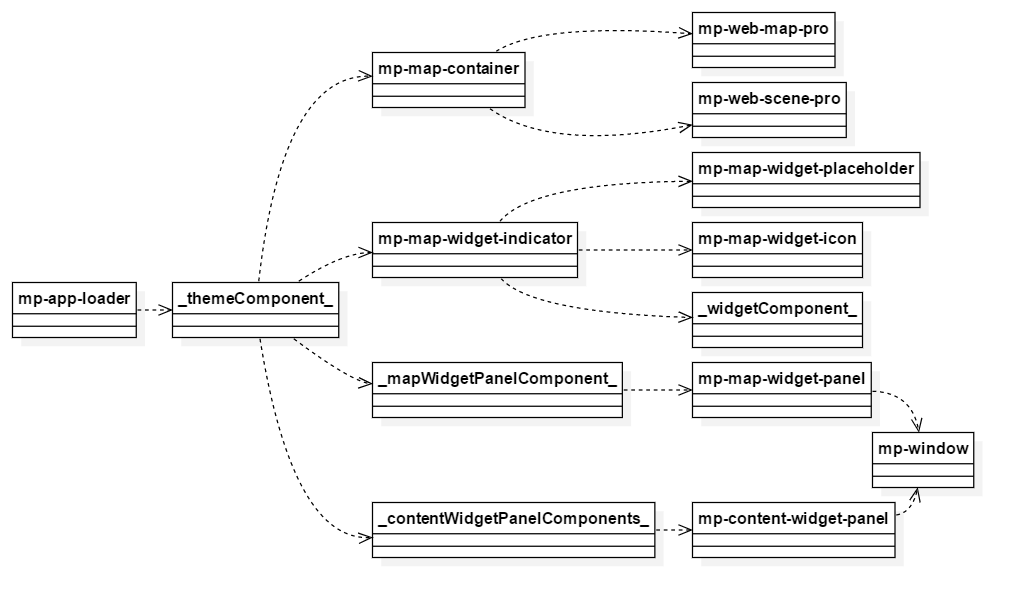
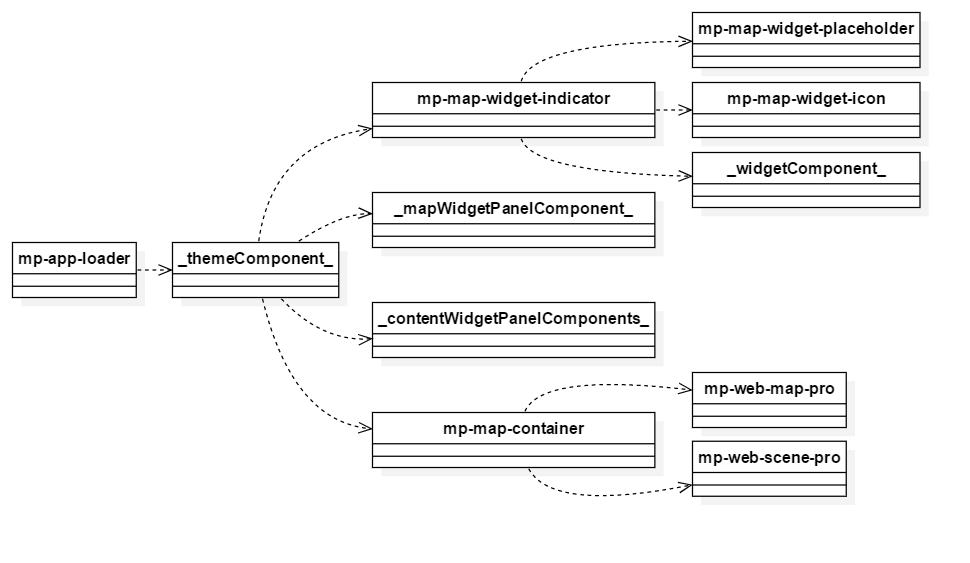
feat：完成指南开发基础部分内容

Changed region(s): [[0.0, 0.0, 0.9588, 0.9361], [0.5876, 0.0302, 0.6186, 0.0604]]

diff --git a/docs/.vuepress/config.js b/docs/.vuepress/config.js
@@ -146,6 +146,10 @@ module.exports = {
           ],
           '/zh/components/': [
             {
+              title: '混入',
+              children: getSidebarByCategory('builder', 'zh')
+            },
+            {
               title: '搭建组件',
               children: getSidebarByCategory('builder-components', 'zh')
             },

diff --git a/docs/zh/guide/development/base.md b/docs/zh/guide/development/base.md
@@ -14,7 +14,7 @@
 
 [mp-app-loader](/zh/components/builder/app-loader.html) 组件负责接收 application，然后提供给所有的子组件，只要任何组件混入 [app-mixin](/zh/api/reference/builder/app-mixin.html)，或者自己 inject getApplication，都可以拿到 application，以及 app-mixin 属性信息里的其他配置相关数据，比如 theme、document 等。
 
-[app.json](<(/zh/guide/introduction/config.html#app-json)>) 是应用全局配置，**包含应用基础配置、文档配置、微件配置等，可通过 [AppManager](/zh/api/reference/builder/manager.html#appmanager) 进行加载，一次性加载完毕**，作为整个应用的数据流，贯穿于整个应用中。
+[app.json](/zh/config/app.html) 是应用全局配置，**包含应用基础配置、文档配置、微件配置等，可通过 [AppManager](/zh/api/reference/builder/manager.html#appmanager) 进行加载，一次性加载完毕**，作为整个应用的数据流，贯穿于整个应用中。**可以先熟悉 app.json 内部结构，再回来看后面的内容。**
 
 > 在引用 MpAppLoader 组件时，会同时引用 AppManager 来获取应用全局配置，并赋值给 application 参数，再将 application 参数赋值给 MpAppLoader 组件。
 > MpAppLoader 组件接收到 application，然后提供给所有的子组件。
@@ -59,25 +59,102 @@ export default {
 
 \_themeComponent\_表示 theme 对象`(从 app.json 中获取)`所关联的主题清单中的组件。通过获取这个主题组件名称，动态创建该组件，并将该组件作为应用根组件，负责承载所有的内容区域布局、地图微件以及弹框面板的布局，其中地图微件和弹框面板由插槽引入。**主题组件可自定义。**
 
+```json
+{
+  // 主题,app.json里的theme字段
+  "theme": {
+    // 主题名称，指向themes/name主题，对应自定义的主题组件名称
+    "name": "pan-spatial-map-classic-theme",
+
+    // 可选，系统主题风格，如果不存在，则使用customStyle
+    "style": "night",
+
+    // 可选，自定义主题风格，必须跟style至少存在一个
+    "customStyle": {
+      "color": "#1890ff",
+      "theme": "night"
+    }
+  }
+}
+```
+
 #### 地图微件
 
-[mp-map-widget-indicator](/zh/components/builder/map-widget-indicator.html) 组件负责各类地图微件的管理，包括不带面板的微件、带面板的微件和占位微件，比如放大、缩小、二三维切换、综合查询等。
+[mp-map-widget-indicator](/zh/components/builder/map-widget-indicator.html) 包含微件位置，微件图标，微件内容。地图微件可以是不带面板的微件、带面板的微件和占位微件，比如放大、缩小、二三维切换、综合查询，图例等。
 
-#### 地图微件面板
+##### 地图微件面板
 
-识别出 mapWidgets 中 panel 的组件名称，动态创建该组件，传入所有 widgets。该面板组件需要根据微件的位置计算出合适的面板位置。
+\_mapWidgetPanelComponent\_地图微件弹出面板集，通过识别出 app.json 里 mapWidgets 中 widgets 的组件名称，动态创建识别的组件。该面板组件需要根据微件配置的位置计算出微件面板合适的显示位置。比如图例微件。
+
+```json
+{
+  "mapWidgets": {
+    "widgets": [
+      {
+        "id": "widget_9b4aaff5-c4b1-4402-be60-d2cc4eca0476",
+        "uri": "widgets/map-mode-picker",
+        "position": {
+          "anchor": "bottom-left",
+          "horizontalOffset": 10,
+          "verticalOffset": 36
+        }
+      },
+      {
+        "id": "widget_9832ede9-8e67-415e-8964-d97a363e247f",
+        "uri": "widgets/zoom",
+        "position": {
+          "anchor": "bottom-left",
+          "horizontalOffset": 10,
+          "verticalOffset": 78
+        }
+      },
+      {
+        "id": "widget_0bea04e6-3f6a-4826-9f33-41d52628baef",
+        "uri": "widgets/legend",
+        "position": {
+          "anchor": "bottom-right",
+          "horizontalOffset": 10,
+          "verticalOffset": 0
+        }
+      },
+      {
+        "id": "widget_f13b2780-8303-45f4-a6c6-6feda62eccf0",
+        "uri": "widgets/comprehensive-query",
+        "config": "configs/comprehensive-query/config.json",
+        "position": {
+          "anchor": "top-left",
+          "horizontalOffset": 10,
+          "verticalOffset": 10
+        }
+      },
+      {
+        "position": {
+          "anchor": "top-left",
+          "horizontalOffset": 10,
+          "verticalOffset": 52
+        },
+        "placeholder": true
+      }
+    ]
+  }
+}
+```
 
 #### 内容区域
 
-当动态给主题组件传入跟 theme 的 contents 有关的 contentWidgets 后，主题组件会动态创建这些内容区域组件，并同时传入 widgets、widgetStructure 等数据，由内容区域组件自己负责布局和管理。
+当动态给主题组件传入跟 theme 的 contents 有关的 contentWidgets 后，主题组件会动态创建这些内容区域组件，并同时传入 widgets、widgetStructure 等数据，由内容区域组件自己负责布局和管理。比如左侧导航栏，右上角工具栏，底部结果集。
 
-#### 内容区域微件面板
+##### 内容区域微件面板
 
-识别出 contentWidgets.group[n]中 panel 的组件名称，动态创建该组件，传入所有 widgets。该面板组件需要根据配置的位置来进行展示，并考虑 relativeTo 和 mode 属性，如果 relativeTo 为 map，则展示在地图窗口上，如果为 content，则由内容区域组件自己去布局；对于 mode 属性，默认的内容区域面板为 single 模式，如果要支持 multi，需要自己提供面板来实现。
+\_contentWidgetPanelComponents\_内容微件的弹出面板集。根据 contentWidgets.group[n]中 widgets 的组件名称，动态创建识别的组件。该面板组件需要根据微件配置的位置来进行展示，并考虑 relativeTo 和 mode 属性，如果 relativeTo 为 map，则展示在地图窗口上，如果为 content，则由内容区域组件自己去布局（比如自定义主题里定义的导航栏，工具栏等）；对于 mode 属性，默认的内容区域面板为 single 模式，如果要支持 multi，需要自己提供面板来实现。
+
+#### 地图容器
+
+mp-map-container 是地图容器组件，内部包含二维地图容器 mp-web-map-pro 和三维地图容器 mp-web-scene-pro。各类地图数据的加载都在地图容器中处理。
 
 ## 微件状态
 
-共三种状态，`OPENED`、`ACTIVE`、`CLOSED`，分别表示打开、激活和关闭，对于不弹面板的微件来说，初始状态为 `OPENED`，像放大缩小按钮，因为可点击（虽不弹面板），所以点击后状态为 `ACTIVE`，一旦其他微件激活，它将重新变为 `OPENED`；对于可弹面板的微件来说，初始状态为 `CLOSED`，一旦面板弹出，状态变为 `OPENED`，如果该面板处于当前，则状态为 `ACTIVE`，一旦其他微件激活，它也将重新变为 `OPENED`，一旦面板被关闭，它的状态将变为 `CLOSED`，直到再次被打开。
+共三种状态，`OPENED`、`ACTIVE`、`CLOSED`，分别表示打开、激活和关闭。对于不弹面板的微件来说，初始状态为 `OPENED`，像放大缩小按钮，因为可点击（虽不弹面板），所以点击后状态为 `ACTIVE`，一旦其他微件激活，它将重新变为 `OPENED`；对于可弹面板的微件来说，初始状态为 `CLOSED`，一旦面板弹出，状态变为 `OPENED`，如果该面板处于当前，则状态为 `ACTIVE`，一旦其他微件激活，它也将重新变为 `OPENED`，一旦面板被关闭，它的状态将变为 `CLOSED`，直到再次被打开。
 
 ### 源码定义
 
@@ -121,12 +198,12 @@ export default {
 
 ## 地图模式
 
-地图模式分为二维和三维，目前，二维地图模式下引擎为 mapbox，三维模式下为 cesium，只要混入了 [AppMixin](/zh/api/reference/app-mixin.html)，就可以通过获取 mapRender 来得到当前的引擎，或者通过 `is2DMapMode` 来判断当前是二维还是三维，如果要切换模式，调用 `switchMapMode` 可以轻松办到。
+地图模式分为二维和三维，目前，二维地图模式下引擎为 mapbox，三维模式下为 cesium，只要混入了 [AppMixin](/zh/api/reference/builder/app-mixin.html)，就可以通过获取 mapRender 来得到当前的引擎，或者通过 `is2DMapMode` 来判断当前是二维还是三维，如果要切换模式，调用 `switchMapMode` 可以轻松办到。
 
 ## 地图对象
 
-默认主题混入对象，会监听地图容器对象地图的加载，不管是二维还是三维，监听完毕后会将二三维地图对象提供给主题的所有子组件，只要混入 [MapMixin](/zh/api/reference/map-mixin.html)，就可以拿到这些对象，对于 [WidgetMixin](/zh/api/reference/widget-mixin.html)，已经混入 [MapMixin](/zh/api/reference/map-mixin.html)，所以任意微件，均可拿到这些对象进行使用。
+默认主题混入对象，会监听地图容器对象地图的加载，不管是二维还是三维，监听完毕后会将二三维地图对象提供给主题的所有子组件，只要混入 [MapMixin](/zh/api/reference/builder/map-mixin.html)，就可以拿到这些对象，对于 [WidgetMixin](/zh/api/reference/builder/widget-mixin.html)，已经混入 [MapMixin](/zh/api/reference/builder/map-mixin.html)，所以任意微件，均可拿到这些对象进行使用。
 
 ## 微件配置
 
-因为各微件配置位于应用目录下各微件自身的目录内，名为 [`config.json`](/zh/guide/introduction/config.html#widget)，如果对初始配置有修改，会另外存储到应用目录下的 configs 下同微件名的目录下，微件配置会在应用加载的第一时间获取到，所以不是按需加载不是懒加载，在微件组件内，直接通过 config 属性就可以直接拿到这些配置数据。
+因为各微件配置位于应用目录下各微件自身的目录内，名为 [`config.json`](/zh/config/widget.html)，如果对初始配置有修改，会另外存储到应用目录下的 configs 下同微件名的目录下，微件配置会在应用加载的第一时间获取到，所以不是按需加载不是懒加载，在微件组件内，直接通过 config 属性就可以直接拿到这些配置数据。
